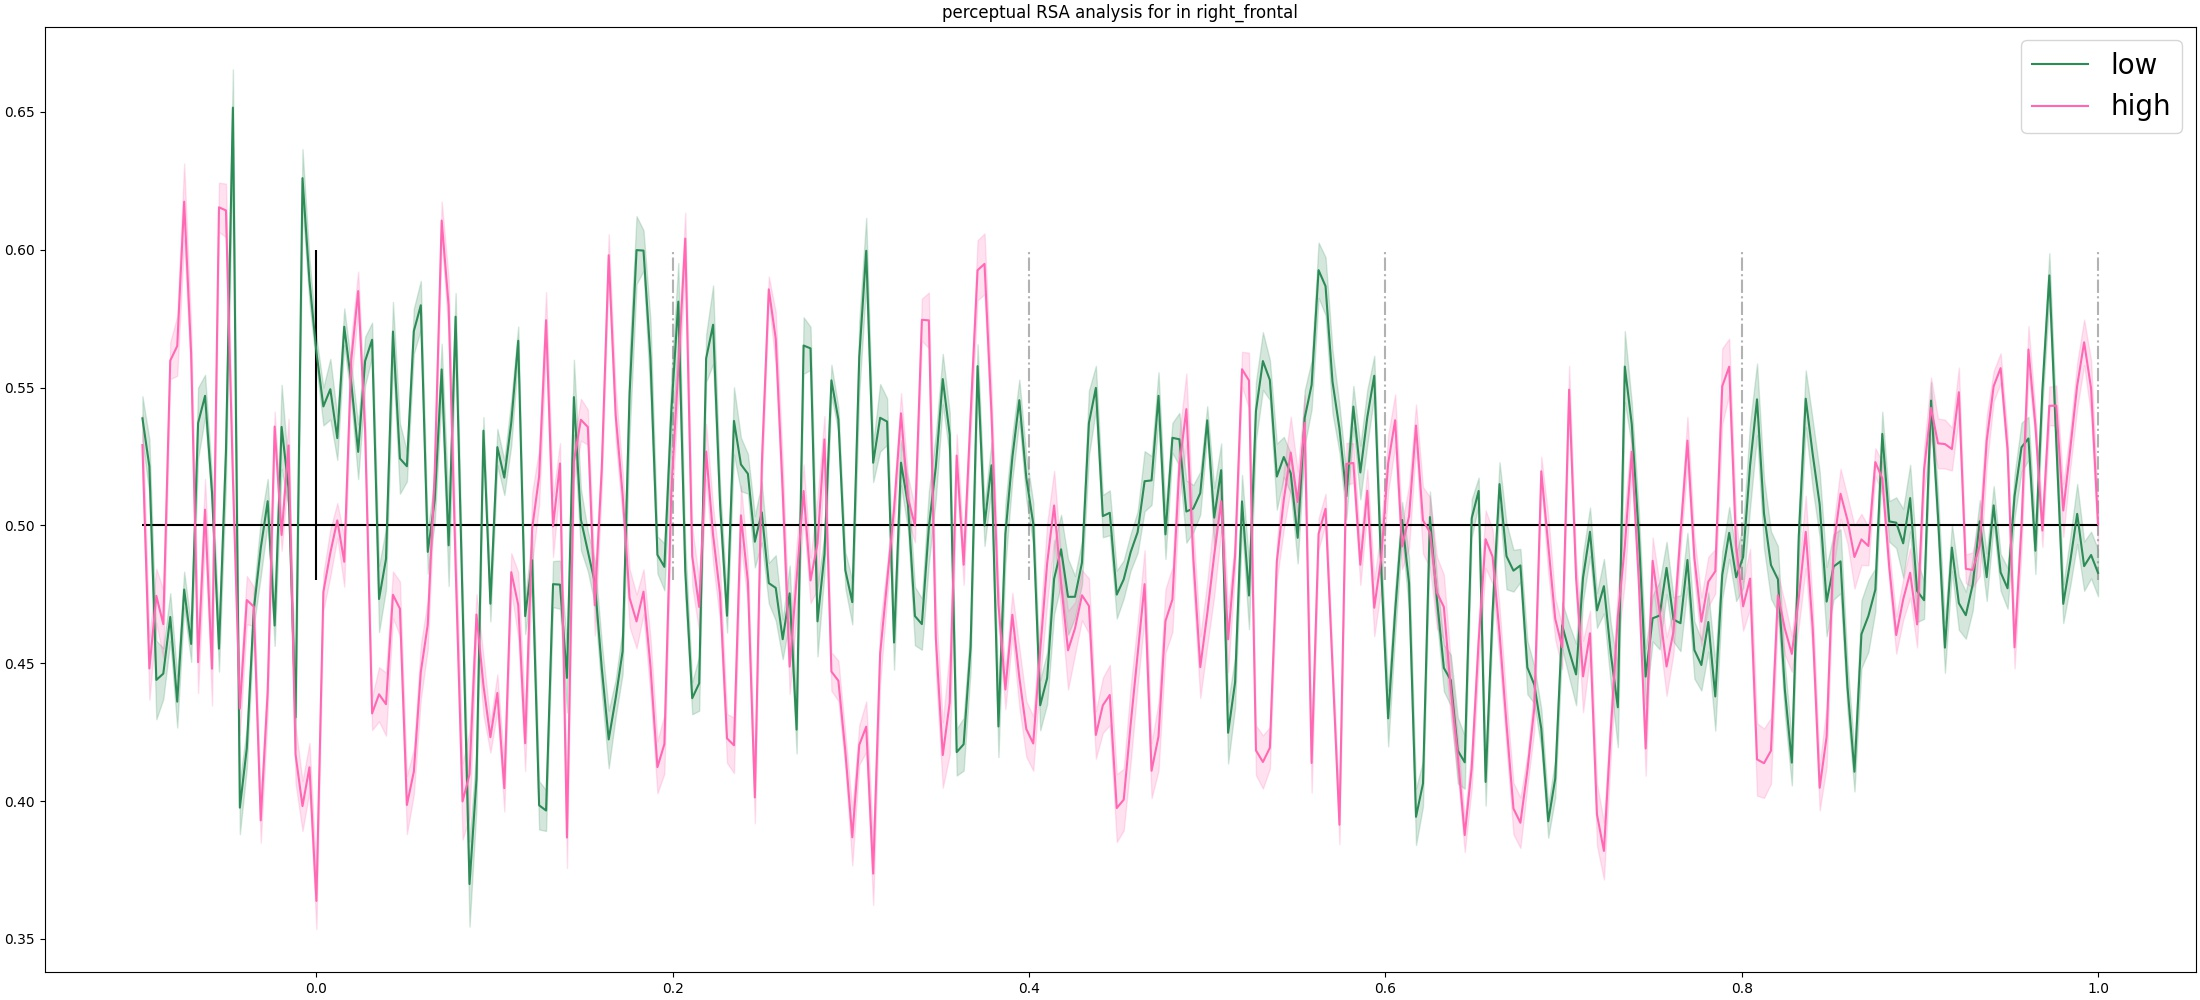
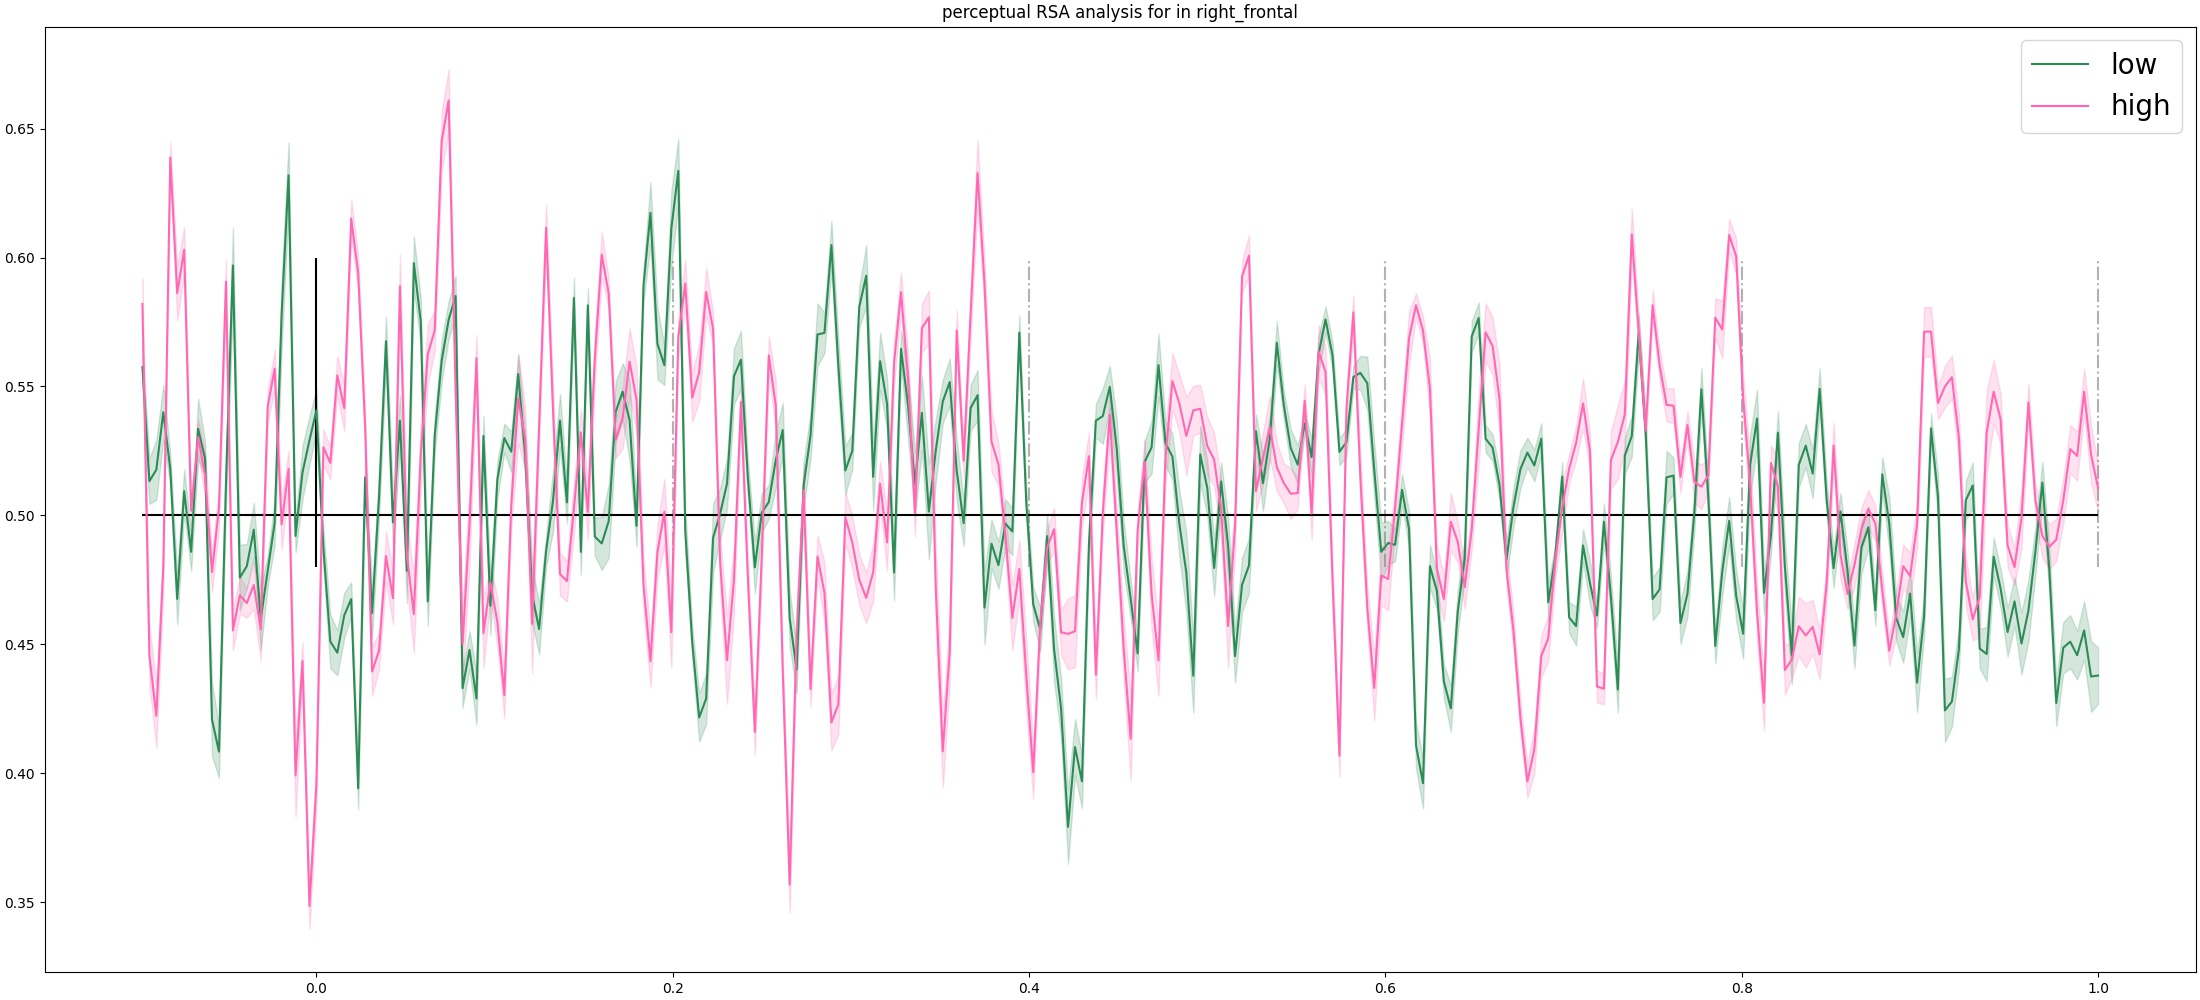
new plots

Changed region(s): [[0.0618, 0.093, 0.9582, 0.899], [0.0, 0.496, 0.0309, 0.527], [0.0, 0.248, 0.0309, 0.279]]

diff --git a/04_rsa_simple.py b/04_rsa_simple.py
@@ -176,8 +176,10 @@ for w_one, w_two in all_combs:
 
 ### scaling in 0 to +1
 for h, h_scores in distances.items():
-    distances[h] = zero_one_norm(h_scores.items())
+    #distances[h] = zero_one_norm(h_scores.items())
+    distances[h] = minus_one_one_norm(h_scores.items())
 
+### turning distances into similarities
 similarities = {h : {k : 1-val for k, val in v.items()} for h, v in distances.items()}
 
 general_folder = 'rsa_plots'
